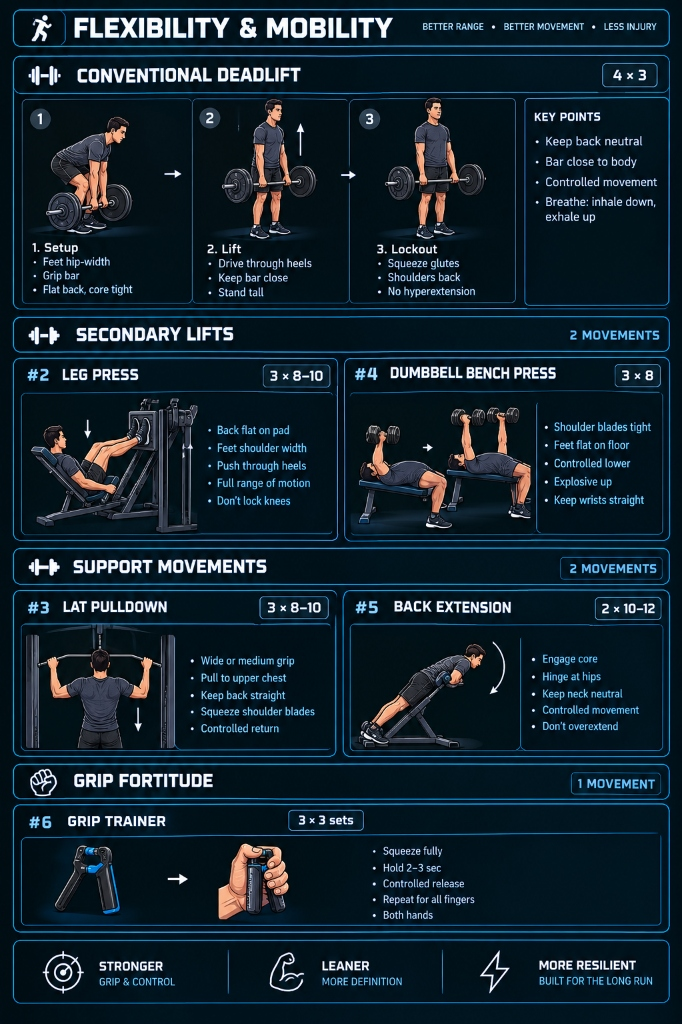
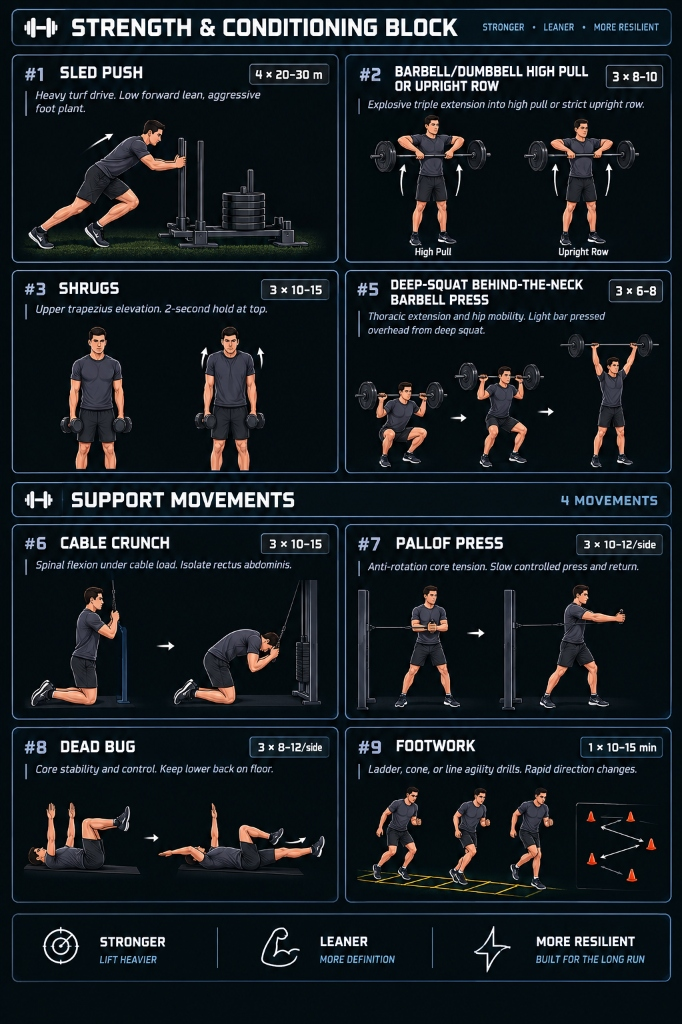
fixed the issues

diff --git a/src/tests/blueprintImages.test.ts b/src/tests/blueprintImages.test.ts
@@ -80,12 +80,22 @@ describe('7-Day Workout Blueprint Image Integration', () => {
     const publicPath = path.resolve(__dirname, '../../public/thursday-exercise-protocol.jpg');
     expect(fs.existsSync(publicPath)).toBe(true);
     const stats = fs.statSync(publicPath);
-    expect(stats.size).toBeGreaterThan(100000); // 356KB image
+    expect(stats.size).toBeGreaterThan(100000);
 
     const thursday = WORKOUT_SCHEDULE[4];
     expect(thursday.exerciseProtocolImageUrl).toBe('/thursday-exercise-protocol.jpg');
     const zoroExercise = thursday.exercises.find((ex) => ex.id === 'deep_squat_btn_press');
     expect(zoroExercise).toBeDefined();
     expect(zoroExercise!.name).toContain('Zoro');
+  });
+
+  it('Public wednesday-exercise-protocol.jpg exists and Wednesday has exerciseProtocolImageUrl', () => {
+    const publicPath = path.resolve(__dirname, '../../public/wednesday-exercise-protocol.jpg');
+    expect(fs.existsSync(publicPath)).toBe(true);
+    const stats = fs.statSync(publicPath);
+    expect(stats.size).toBeGreaterThan(100000); // 356KB image
+
+    const wednesday = WORKOUT_SCHEDULE[3];
+    expect(wednesday.exerciseProtocolImageUrl).toBe('/wednesday-exercise-protocol.jpg');
   });
 });

diff --git a/src/data/workoutSchedule.ts b/src/data/workoutSchedule.ts
@@ -299,6 +299,7 @@ export const WORKOUT_SCHEDULE: Record<number, WorkoutScheduleDay> = {
     preparationSections: COMMON_WARMUP_SECTIONS,
     preparationChecklist: COMMON_WARMUP_CHECKLIST,
     preworkoutImageUrl: '/warmup-protocol.jpg',
+    exerciseProtocolImageUrl: '/wednesday-exercise-protocol.jpg',
     exercises: [
       {
         id: 'conventional_deadlift',
